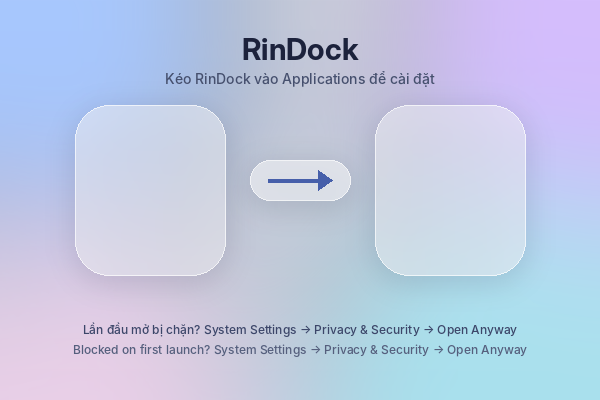
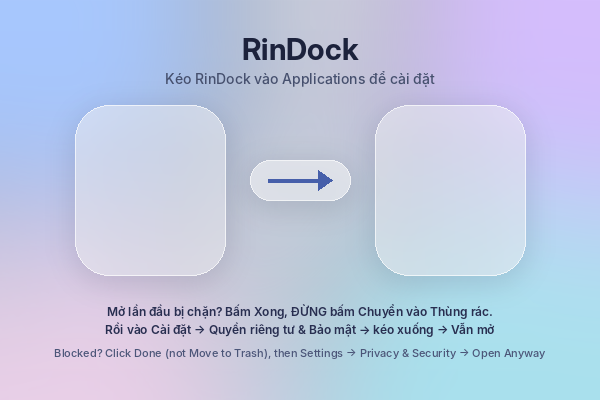
Hướng dẫn mở lần đầu theo hộp thoại mới của macOS (Xong / đừng bấm Thùng rác / Vẫn mở)
Claude-Session: https://claude.ai/code/session_01DNY3Y53QQsD8oqxE181Thh

Changed region(s): [[0.09, 0.75, 0.93, 0.9]]

diff --git a/README.md b/README.md
@@ -45,14 +45,14 @@ Mẹo:
 
 **Bước 2:** Mở file `.dmg`, kéo icon **RinDock** sang thư mục **Applications** ngay bên cạnh. Kéo xong thì đẩy ổ RinDock ra (bấm nút ⏏ cạnh RinDock trong Finder).
 
-**Bước 3:** Mở RinDock. Vì app chưa đăng ký với Apple nên macOS sẽ chặn ở lần mở đầu. Cách mở:
+**Bước 3:** Mở RinDock. Vì app chưa được Apple công chứng nên macOS sẽ chặn ở lần mở đầu, hộp thoại chỉ có 2 nút. Cách mở:
 
-1. Bấm **Done** (hoặc **OK**) ở thông báo chặn.
-2. Vào **System Settings → Privacy & Security**, kéo xuống dưới cùng.
-3. Bấm **Open Anyway** cạnh dòng nói về RinDock, nhập mật khẩu máy.
-4. Mở lại RinDock, bấm **Open**.
+1. Bấm **Xong** (**Done**). ⚠ **Đừng bấm Chuyển vào Thùng rác** (**Move to Trash**), bấm là app bị xoá.
+2. Mở **Cài đặt hệ thống → Quyền riêng tư & Bảo mật** (**System Settings → Privacy & Security**).
+3. Kéo xuống phần **Bảo mật** (**Security**), thấy dòng nói về RinDock thì bấm **Vẫn mở** (**Open Anyway**), nhập mật khẩu máy hoặc dùng Touch ID.
+4. Hộp thoại hiện lại thì bấm **Vẫn mở** (**Open Anyway**).
 
-Chỉ cần làm một lần.
+Chỉ cần làm một lần. Các bản cập nhật sau RinDock tự cài, không bị chặn nữa.
 
 **Bước 4:** Cấp quyền (xem phần [Cấp quyền](#cấp-quyền) bên dưới).
 
@@ -163,7 +163,7 @@ Không ủng hộ cũng không sao. Bấm ⭐ cho repo, hoặc chia sẻ RinDock
 
 **Requirements:** macOS 13 or later, Apple silicon or Intel.
 
-**Install (pre-built):** download `RinDock-x.x.dmg` from [Releases](../../releases/latest), open it, drag **RinDock** onto **Applications**, then open the app. The app isn't notarized, so the first launch is blocked: go to **System Settings → Privacy & Security**, click **Open Anyway**, then open it again.
+**Install (pre-built):** download `RinDock-x.x.dmg` from [Releases](../../releases/latest), open it, drag **RinDock** onto **Applications**, then open the app. The app isn't notarized, so the first launch is blocked: click **Done** (not **Move to Trash**), go to **System Settings → Privacy & Security**, scroll to **Security**, click **Open Anyway**, then confirm **Open Anyway** again.
 
 **Install (from source):**
 
